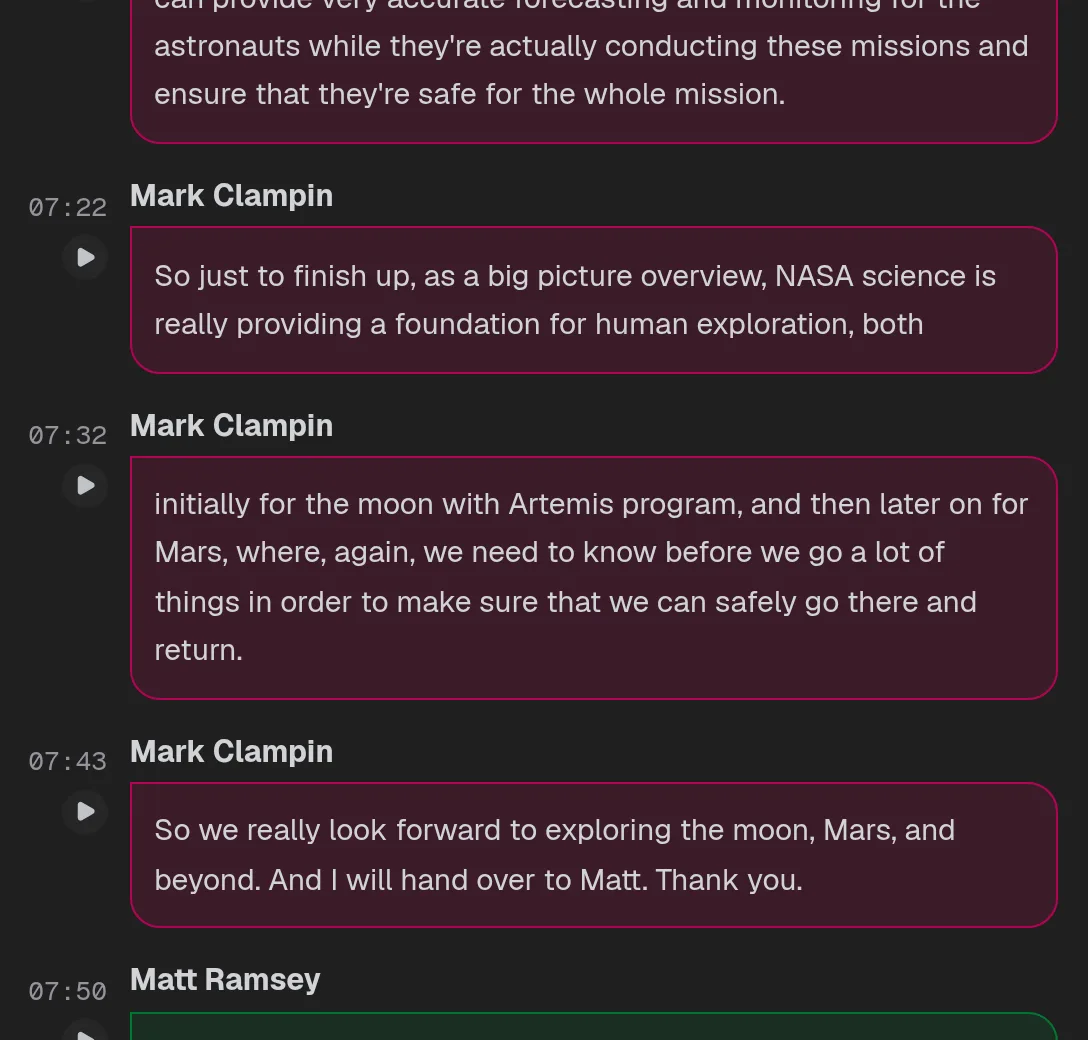
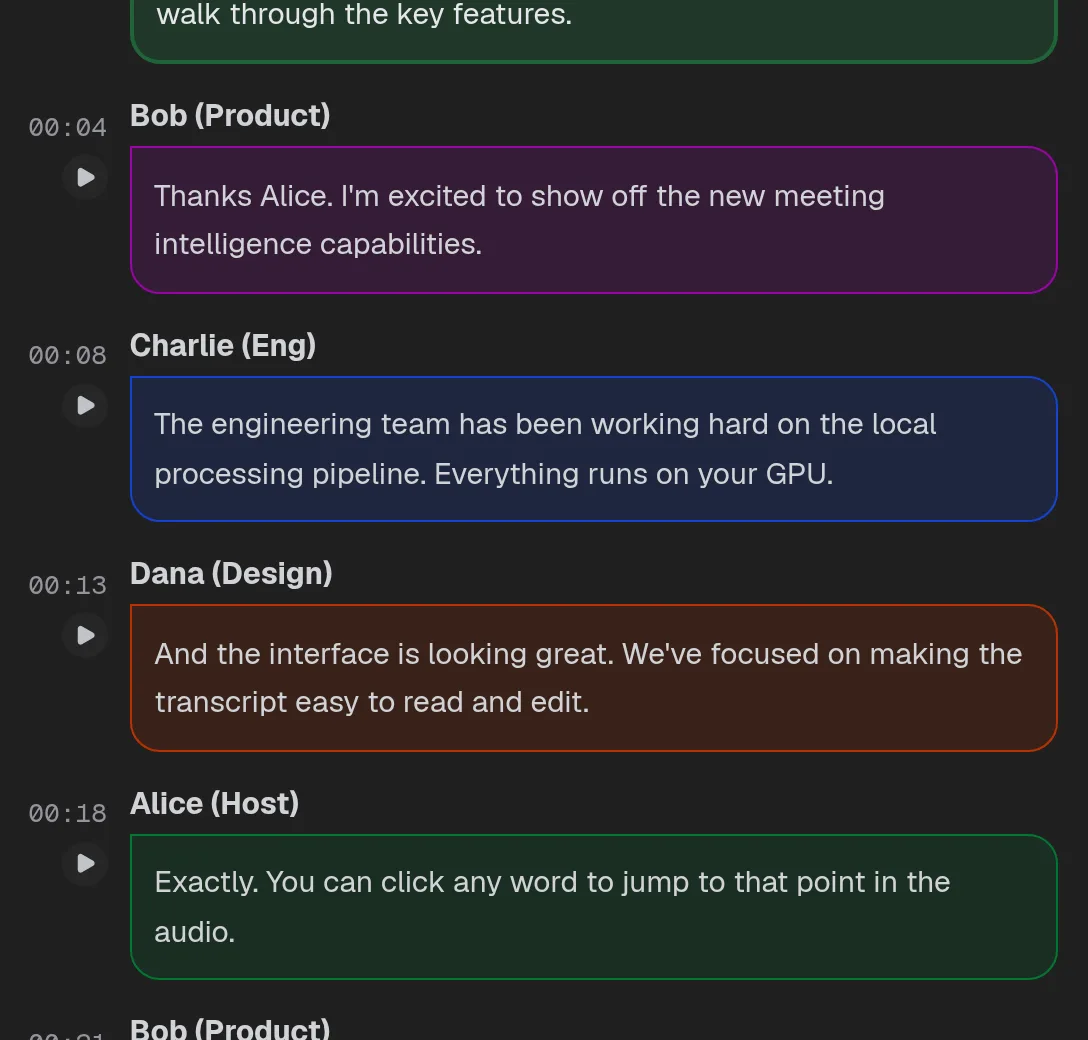
feat(site): title case, banded rhythm, and a four-speaker transcript
Four changes from review.

The transcripts shot now has four speakers. It could not come from the
Artemis briefing -- that is a press conference of long monologues, and
its whole 12,070px transcript never holds three speakers at once. It did
not need a new fixture either: the product already seeds a demo
recording called "Welcome to Nojoin" with Alice, Bob, Charlie and Dana
trading one line each, which is exactly a diarisation shot. It was
simply absent from this instance, so it was re-created through the
supported endpoint the app already exposes for it, POST
/api/v1/system/seed-demo. Nothing was invented and nothing was inserted
by hand, so any user can reproduce the shot from Settings.

The spell check becomes the point rather than an embarrassment. The
generated demo notes use American spellings and the editor underlines
them, which read as errors in Nojoin's own output. The copy now claims
them: the row says the spell check reads British English, and points at
the red line under the model's "emphasizing". Nothing was retouched.

Headings and eyebrow labels move to title case, reversing the
sentence-case rule SITE.md recorded. The style is the conventional one
rather than every-word-capitalised, so short function words stay down
unless they open or close the line -- "Every Word, Attributed to the
Right Person", "£24.99 a Person, a Month". Body copy, leads, buttons and
alt text stay sentence case. The hero headline is exempt and says so in
[…]

diff --git a/docs/SITE.md b/docs/SITE.md
@@ -71,7 +71,18 @@ Locked by decision, rendered and chosen from variants, and not to be re-litigate
   it — framed screenshots, the flow card, the tool showcase, the price card — each carrying
   `--lift`. `.band` keeps only `--band-wash`, a gradient faint enough that two adjacent
   bands never look like a seam. In dark it lightens rather than casting, because a black
-  shadow on a near-black page is invisible.
+  shadow on a near-black page is invisible. **`.band` and `.section` must still strictly
+  alternate**, and it is worth checking after any section is added or removed: the wash is
+  faint, so two `.band`s in a row do not look like a seam, they look like nothing at all, and
+  the rhythm quietly disappears. Removing the privacy section left three consecutive bands
+  before anyone noticed.
+- **The spell check is in the notes screenshot on purpose.** The generated demo notes use
+  American spellings and the editor underlines them, which read as errors in Nojoin's output
+  until the copy beside the shot claimed them: the row now points at the red line under
+  "emphasizing" and says the spell check reads British English. That turns an artefact into
+  the feature it actually is. It is also the honest reading — nothing was retouched, and four
+  attempts to suppress the underlines failed because the editor re-renders through DOM and
+  stylesheet overrides alike.
 - **The quick-start code block is dark in both themes**, and it is the only surface that
   ignores the theme toggle. It followed the theme until a reader pointed out it was still
   hard to look at in light: the syntax colours were legible on the measurements, but the
@@ -183,14 +194,15 @@ Locked by decision, rendered and chosen from variants, and not to be re-litigate
     passage from anything else for this reason, and it is why the agent band ended up with
     no shot at all.
 
-  **What the seeded instance can and cannot show.** Only the Artemis briefing has a
-  transcript; the other eight recordings are metadata with no utterances, so every transcript
-  crop has to come from that one. It is a press conference, which means long monologues: the
-  whole 12,070px transcript was scanned at 40px steps and **no window of it ever holds three
-  speakers at once**, even at 880px tall. The transcripts row therefore shows a two-speaker
-  handover, and a three-speaker frame needs a differently seeded recording rather than a
-  better crop. The notes shot carries two spell-check underlines for the same reason — the
-  demo notes are generated text with American spellings, and the editor flags them.
+  **Which recording each shot comes from.** The notes and Meeting Edge shots come from the
+  Artemis briefing. The transcripts shot comes from **"Welcome to Nojoin", the demo recording
+  the product itself seeds** — four speakers trading one line each, which is what a
+  diarisation shot needs and what a press conference cannot give: Artemis is long monologues,
+  and its whole 12,070px transcript was scanned at 40px steps without ever holding three
+  speakers at once. Any user can re-create that recording from **Settings**, or with
+  `POST /api/v1/system/seed-demo`, so the shot is reproducible rather than a one-off. Note
+  that the other eight seeded business meetings are metadata only and have no transcript at
+  all, so they cannot supply one.
 - **The selective highlight**: at most one line per page carries a flat `--action-tint` mark
   behind the text. If nothing on a page earns it, that is a finding about the page, not a
   reason to lower the bar. The highlight and the closer are separate devices; a page never
@@ -210,7 +222,7 @@ accessibility section.
 ## Voice
 
 The site speaks the product's own register: plain, direct, a little opinionated, second
-person, sentence case, British English, no emoji. It shares a writing standard with the
+person, British English, no emoji. It shares a writing standard with the
 sibling brand Vorkane, adapted rather than copied — Vorkane sells a person and writes in the
 first person singular; Nojoin is a product and never says "I" or "we" in marketing copy.
 
@@ -229,7 +241,15 @@ corporate plural is exactly the register the rest of these rules exist to avoid.
 
 The rules:
 
-- **Contract everything.** "It's", "can't", "won't", "you've". The refusal to contract is
+- **Title case for headings and eyebrow labels, sentence case for everything else.** This
+  reverses an earlier sentence-case-everywhere rule. Headings on this site are labels rather
+  than sentences, and title case is what the rest of the web sets them in. The style is the
+  conventional one, not every-word-capitalised: principal words take a capital and short
+  function words do not unless they open or close the line — "Every Word, Attributed to the
+  Right Person", "£24.99 a Person, a Month", "Four Steps to Running". Body copy, leads,
+  buttons, table cells and alt text stay sentence case. **The hero headline is exempt**: it is
+  set as two sentences and it is baked into the Open Graph card, so changing its case means
+  regenerating that card as well. "It's", "can't", "won't", "you've". The refusal to contract is
   the single strongest tell that a machine wrote it.
 - **Vary sentence length deliberately.** A three-word sentence next to a thirty-word one.
 - **Numbers instead of adjectives**, wherever a true number exists. One compose file, one
